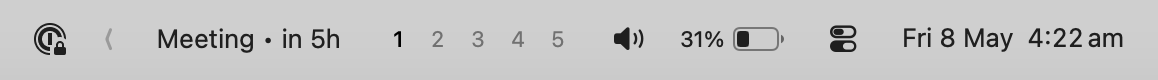
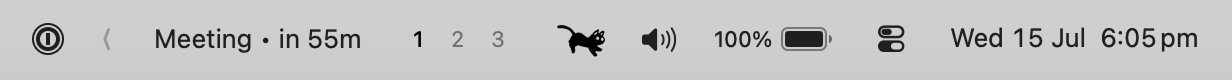
Add RunCat to brewfile

Changed region(s): [[0.1244, 0.3, 0.6839, 0.7], [0.715, 0.3, 0.9948, 0.65], [0.0311, 0.275, 0.0933, 0.7]]

diff --git a/readme.md b/readme.md
@@ -144,7 +144,7 @@ Scripts to automate the setup of a new macOS installation with my preferred sett
       - Downloads → Turn off "Show downloads when they're complete"
       - System → Turn off "On-device AI"
     - Flags
-      - [#lens-overlay-optimization-filter](chrome://flags/#lens-overlay-optimization-filter) → Set to "Disabled" → Set to "Enabled"
+      - [#lens-overlay-optimization-filter](chrome://flags/#lens-overlay-optimization-filter) → Set to "Disabled"
 
   - Hammerspoon
     - Settings → Turn on "Launch Hammerspoon at login"
@@ -167,6 +167,13 @@ Scripts to automate the setup of a new macOS installation with my preferred sett
   - Raycast
     - Import settings file
     - Disable unused extensions/commands
+
+  - RunCat Neo
+    - Settings
+      - General → Turn on "Launch at login"
+      - Metrics
+        - Turn off "Enable Storage Capacity Monitoring"
+        - Turn off "Enable Battery Status Monitoring"
 
   - VS Code
     - Sync settings and extensions